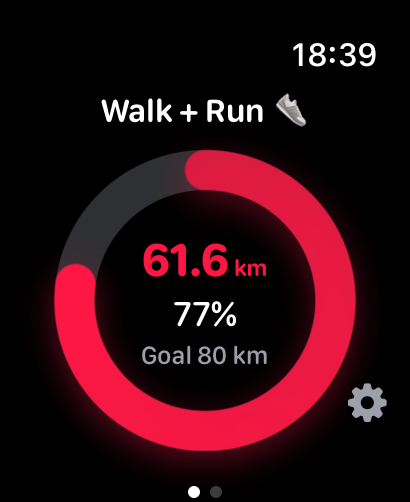
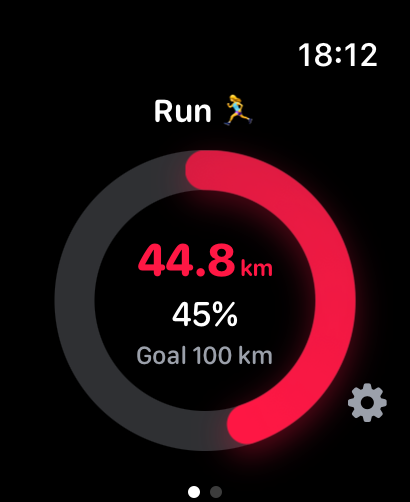
new8

diff --git a/sportring/index.html b/sportring/index.html
@@ -192,7 +192,7 @@
       <li>🏃 Looking to build a consistent workout habit</li>
       <li>🎯 Anyone seeking simple, monthly goal tracking</li>
       <li>⌚ Apple Watch owners who want better data visualization</li>
-      <li>✨ Fans of minimal and intuitive fitness apps</li>
+      <li>✨ Those who value simplicity and ease of use</li>
     </ul>
   </div>
 </div>

diff --git a/sportring/ja/index.html b/sportring/ja/index.html
@@ -192,7 +192,7 @@
       <li>🏃 運動習慣を心地よく継続したい方</li>
       <li>🎯 月間の目標達成をシンプルに記録・管理したい方</li>
       <li>⌚ Apple Watchのデータを美しく可視化したい方</li>
-      <li>✨ ミニマルで直感的なアプリを好む方</li>
+      <li>✨ シンプルさと使いやすさを大切にする方</li>
     </ul>
   </div>
 </div>